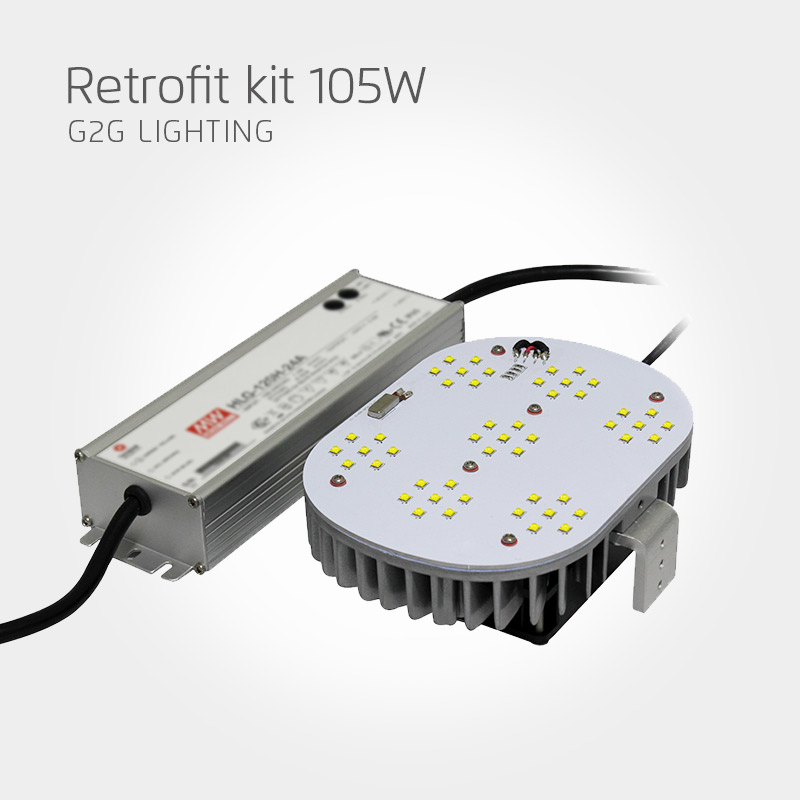
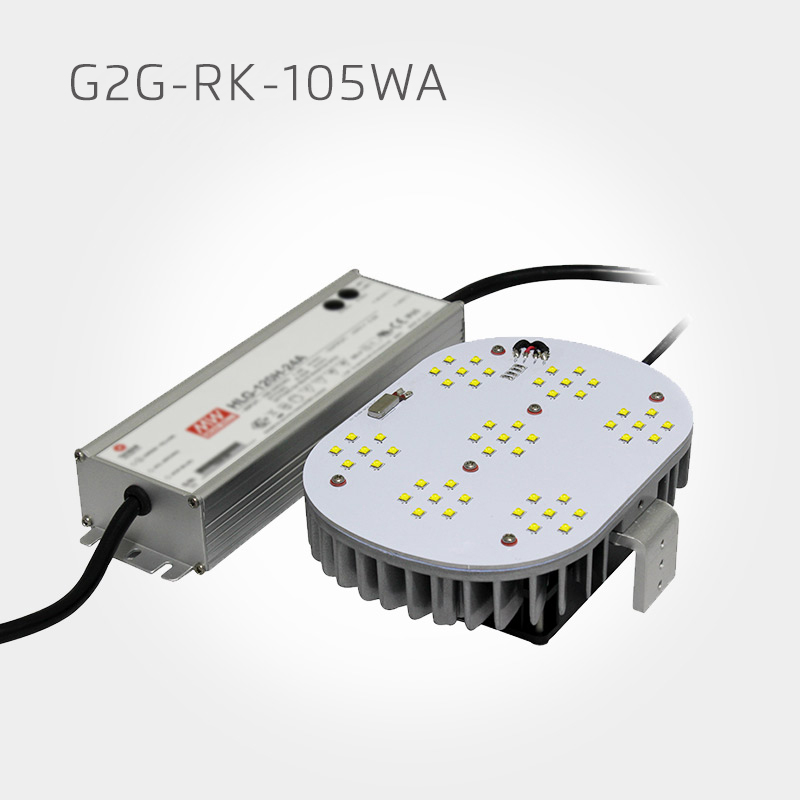
修改替幻灯和鞋盒灯

Changed region(s): [[0.0625, 0.0625, 0.5625, 0.1875]]

diff --git a/product-list.html b/product-list.html
@@ -104,18 +104,18 @@
       -->
 		<ul ng-show="pid=='shoebox'" class="portfolio-filter text-center">
 			<!--<li><a ng-click="filterProducts('shoebox','')" class="btn btn-default" ng-class="{active:cid == 'all'}" >All</a></li>-->
-			<li><a ng-click="filterProducts('shoebox','40W')" class="btn btn-default" ng-class="{active:cid == '40W'}" >40W</a></li>
-			<li><a ng-click="filterProducts('shoebox','80W')" class="btn btn-default" ng-class="{active:cid == '80W'}" >80W</a></li>
-			<li><a ng-click="filterProducts('shoebox','120W')" class="btn btn-default" ng-class="{active:cid == '120W'}" >120W</a></li>
-			<li><a ng-click="filterProducts('shoebox','160W')" class="btn btn-default" ng-class="{active:cid == '160W'}" >160W</a></li>
-			<li><a ng-click="filterProducts('shoebox','200W')" class="btn btn-default" ng-class="{active:cid == '200W'}" >200W</a></li>
+			<li><a ng-click="filterProducts('shoebox','40W')" class="btn btn-default" ng-class="{active:cid == '40W'}" >G2G-40W</a></li>
+			<li><a ng-click="filterProducts('shoebox','80W')" class="btn btn-default" ng-class="{active:cid == '80W'}" >G2G-80W</a></li>
+			<li><a ng-click="filterProducts('shoebox','120W')" class="btn btn-default" ng-class="{active:cid == '120W'}" >G2G-120W</a></li>
+			<li><a ng-click="filterProducts('shoebox','160W')" class="btn btn-default" ng-class="{active:cid == '160W'}" >G2G-160W</a></li>
+			<li><a ng-click="filterProducts('shoebox','200W')" class="btn btn-default" ng-class="{active:cid == '200W'}" >G2G-200W</a></li>
 		</ul>
 		<ul ng-show="pid=='retrofit'" class="portfolio-filter text-center">
 			<!--<li><a ng-click="filterProducts('retrofit','')" class="btn btn-default" ng-class="{active:cid == 'all'}" >All</a></li>-->
-			<li><a ng-click="filterProducts('retrofit','105W')" class="btn btn-default" ng-class="{active:cid == '105W'}" >105W</a></li>
-			<li><a ng-click="filterProducts('retrofit','120W')" class="btn btn-default" ng-class="{active:cid == '120W'}" >120W</a></li>
-			<li><a ng-click="filterProducts('retrofit','150W')" class="btn btn-default" ng-class="{active:cid == '150W'}" >150W</a></li>
-			<li><a ng-click="filterProducts('retrofit','200W')" class="btn btn-default" ng-class="{active:cid == '200W'}" >200W</a></li>
+			<li><a ng-click="filterProducts('retrofit','105W')" class="btn btn-default" ng-class="{active:cid == '105W'}" >G2G-RK-105WA</a></li>
+			<li><a ng-click="filterProducts('retrofit','120W')" class="btn btn-default" ng-class="{active:cid == '120W'}" >G2G-RK-120WA</a></li>
+			<li><a ng-click="filterProducts('retrofit','150W')" class="btn btn-default" ng-class="{active:cid == '150W'}" >G2G-RK-150WA</a></li>
+			<li><a ng-click="filterProducts('retrofit','200W')" class="btn btn-default" ng-class="{active:cid == '200W'}" >G2G-RK-200WA</a></li>
 		</ul>
 
 		<ul ng-show="pid=='tube'" class="portfolio-filter text-center">

diff --git a/css/main.css b/css/main.css
@@ -1,5 +1,5 @@
 .product-features p{
-	text-indent: 10px;
+
 	margin: 0 0 0px;
 }
 .anpro_pro{
